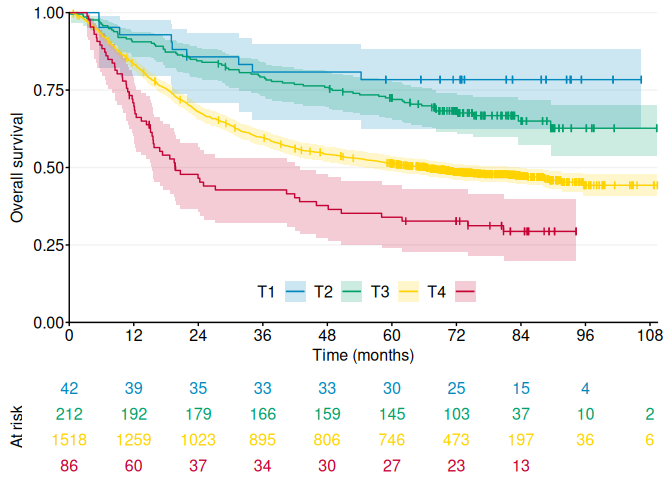
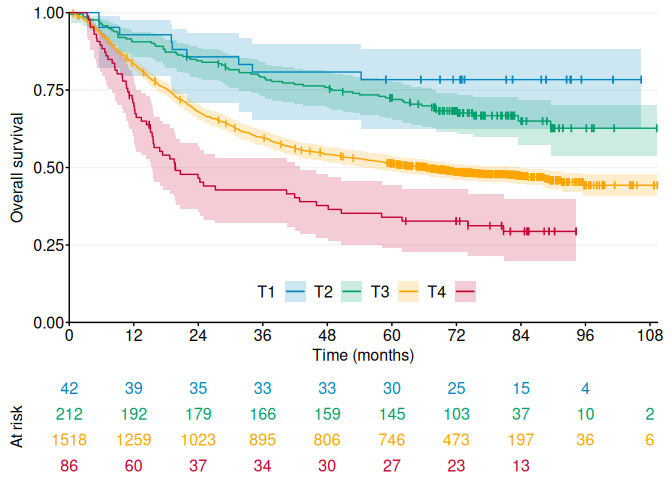
v0.14.2

diff --git a/docs/index.html b/docs/index.html
@@ -86,7 +86,7 @@
 <code class="sourceCode R"><span><span class="kw"><a href="https://rdrr.io/r/base/library.html" class="external-link">library</a></span><span class="op">(</span><span class="va"><a href="https://github.com/hongconsulting/ggKaplanMeier" class="external-link">ggKaplanMeier</a></span><span class="op">)</span></span>
 <span><span class="va">data</span> <span class="op">&lt;-</span> <span class="fu">survival</span><span class="fu">::</span><span class="va"><a href="https://rdrr.io/pkg/survival/man/colon.html" class="external-link">colon</a></span></span>
 <span><span class="va">fig1</span> <span class="op">&lt;-</span> <span class="fu"><a href="reference/ggKM.html">ggKM</a></span><span class="op">(</span><span class="va">data</span><span class="op">$</span><span class="va">time</span> <span class="op">*</span> <span class="fl">12</span> <span class="op">/</span> <span class="fl">365.2425</span>, <span class="va">data</span><span class="op">$</span><span class="va">status</span>, <span class="va">data</span><span class="op">$</span><span class="va">extent</span>, </span>
-<span>             colors <span class="op">=</span> <span class="fu"><a href="https://rdrr.io/r/base/c.html" class="external-link">c</a></span><span class="op">(</span><span class="st">"#0087BD"</span>, <span class="st">"#009F6B"</span>, <span class="st">"#FFD300"</span>, <span class="st">"#C40233"</span><span class="op">)</span>, </span>
+<span>             colors <span class="op">=</span> <span class="fu"><a href="https://rdrr.io/r/base/c.html" class="external-link">c</a></span><span class="op">(</span><span class="st">"#0087BD"</span>, <span class="st">"#009F6B"</span>, <span class="st">"#FEA500"</span>, <span class="st">"#C40233"</span><span class="op">)</span>, </span>
 <span>             legend.direction <span class="op">=</span> <span class="st">"horizontal"</span>, legend.labels <span class="op">=</span> <span class="fu"><a href="https://rdrr.io/r/base/c.html" class="external-link">c</a></span><span class="op">(</span><span class="st">"T1"</span>, <span class="st">"T2"</span>, <span class="st">"T3"</span>, <span class="st">"T4"</span><span class="op">)</span>, </span>
 <span>             legend.pos <span class="op">=</span> <span class="fu"><a href="https://rdrr.io/r/base/c.html" class="external-link">c</a></span><span class="op">(</span><span class="fl">0.5</span>, <span class="fl">0.1</span><span class="op">)</span>, risk.table <span class="op">=</span> <span class="fl">2</span>, title.s <span class="op">=</span> <span class="st">"Overall survival"</span>, </span>
 <span>             title.t <span class="op">=</span> <span class="st">"Time (months)"</span><span class="op">)</span></span>

diff --git a/docs/reference/ggKM.html b/docs/reference/ggKM.html
@@ -49,8 +49,8 @@ table.</p>
 <span>  breaks.t <span class="op">=</span> <span class="cn">NULL</span>,</span>
 <span>  CI <span class="op">=</span> <span class="st">"cloglog"</span>,</span>
 <span>  CI.alpha <span class="op">=</span> <span class="fl">0.2</span>,</span>
-<span>  colors <span class="op">=</span> <span class="fu"><a href="https://rdrr.io/r/base/c.html" class="external-link">c</a></span><span class="op">(</span><span class="st">"#0087BD"</span>, <span class="st">"#C40233"</span>, <span class="st">"#009F6B"</span>, <span class="st">"#FFD300"</span>, <span class="st">"#F37715"</span>, <span class="st">"#9755AE"</span>, <span class="st">"#5774C4"</span>,</span>
-<span>    <span class="st">"#BF2779"</span><span class="op">)</span>,</span>
+<span>  colors <span class="op">=</span> <span class="fu"><a href="https://rdrr.io/r/base/c.html" class="external-link">c</a></span><span class="op">(</span><span class="st">"#0087BD"</span>, <span class="st">"#C40233"</span>, <span class="st">"#009F6B"</span>, <span class="st">"#FEA500"</span>, <span class="st">"#9755AE"</span>, <span class="st">"#0098A6"</span>, <span class="st">"#FFD300"</span>,</span>
+<span>    <span class="st">"#D8668B"</span><span class="op">)</span>,</span>
 <span>  digits.fixed <span class="op">=</span> <span class="fl">1</span>,</span>
 <span>  grid.color <span class="op">=</span> <span class="fu">grDevices</span><span class="fu">::</span><span class="fu"><a href="https://rdrr.io/r/grDevices/rgb.html" class="external-link">rgb</a></span><span class="op">(</span><span class="fl">0.95</span>, <span class="fl">0.95</span>, <span class="fl">0.95</span><span class="op">)</span>,</span>
 <span>  grid.s <span class="op">=</span> <span class="fu"><a href="https://rdrr.io/r/base/seq.html" class="external-link">seq</a></span><span class="op">(</span><span class="fl">0</span>, <span class="fl">1</span>, <span class="fl">0.25</span><span class="op">)</span>,</span>
@@ -137,7 +137,7 @@ package)</p></li>
 
 
 <dt id="arg-colors">colors<a class="anchor" aria-label="anchor" href="#arg-colors"></a></dt>
-<dd><p>Vector of colors of the survival curves. Default = <code>c("#0087BD",  "#C40233", "#009F6B", "#FFD300", "#F37715", "#9755AE", "#5774C4", "#BF2779")</code>.</p></dd>
+<dd><p>Vector of colors of the survival curves. Default = <code>c("#0087BD",  "#C40233", "#009F6B", "#FEA500", "#9755AE", "#0098A6", "#FFD300", "#D8668B")</code>.</p></dd>
 
 
 <dt id="arg-digits-fixed">digits.fixed<a class="anchor" aria-label="anchor" href="#arg-digits-fixed"></a></dt>

diff --git a/README.md b/README.md
@@ -56,7 +56,7 @@ print(fig1b)
 library(ggKaplanMeier)
 data <- survival::colon
 fig1 <- ggKM(data$time * 12 / 365.2425, data$status, data$extent, 
-             colors = c("#0087BD", "#009F6B", "#FFD300", "#C40233"), 
+             colors = c("#0087BD", "#009F6B", "#FEA500", "#C40233"), 
              legend.direction = "horizontal", legend.labels = c("T1", "T2", "T3", "T4"), 
              legend.pos = c(0.5, 0.1), risk.table = 2, title.s = "Overall survival", 
              title.t = "Time (months)")
